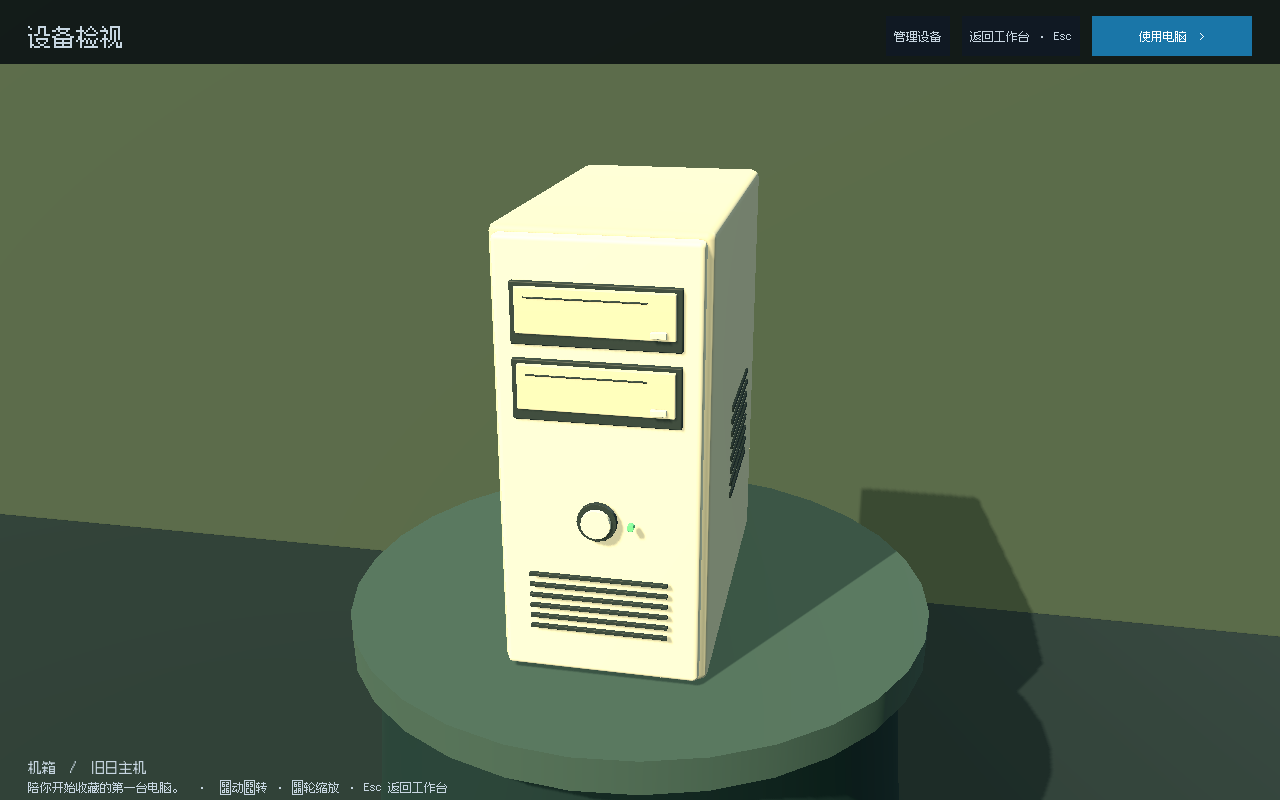
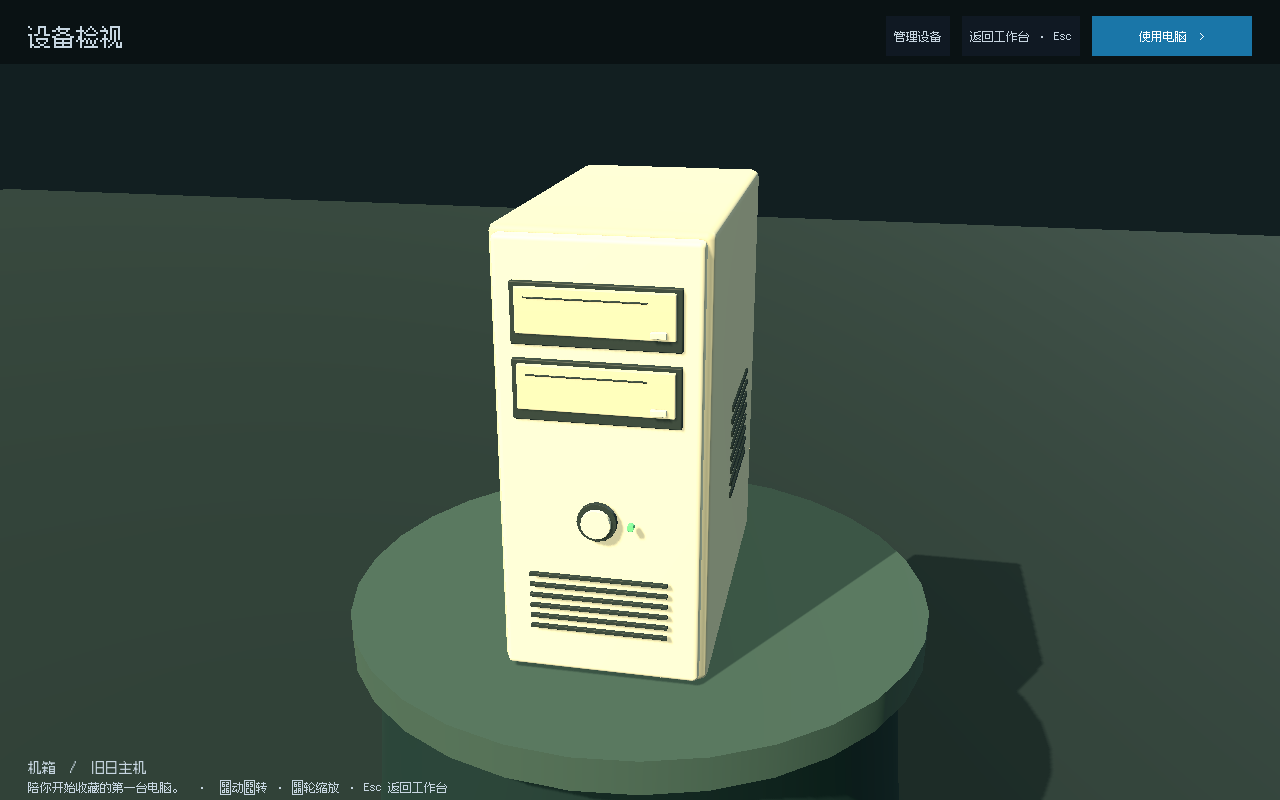
让 ComputerDesktop 使用原生3D场景，并支持总览直接旋转缩放

diff --git a/EDITOR_WORKFLOW.md b/EDITOR_WORKFLOW.md
@@ -4,11 +4,11 @@
 
 | 想编辑的内容 | 打开的文件 |
 |---|---|
-| 设备位置、旋转、缩放，相机和灯光 | `scenes/life/workstation_3d.tscn`，选择 3D |
+| 设备位置、旋转、缩放，相机和灯光 | `scenes/life/computer_desktop.tscn`，选择 3D，展开 Workstation3D |
 | 单件设备及默认 / 升级模型 | `scenes/life/hardware/*.tscn` |
 | 模型几何与材质源文件 | `tools/models/hardware.blend` |
 | 模型对应库存 ID、尺寸与屏幕位置 | `data/hardware/*.tres` |
-| 工作台控制界面、标题栏与按钮 | `scenes/life/computer_desktop.tscn`，选择 2D |
+| 工作台控制界面、标题栏与按钮 | `scenes/life/computer_desktop.tscn` 的 HUD/Interface，选择 2D |
 | 显示器中的系统、快捷方式、任务栏 | `scenes/life/desktop_screen.tscn` |
 | 应用标题栏与窗口操作 | `scenes/life/app_window.tscn` |
 | 商城页面、游戏列表与卡片 | `scenes/store.tscn`、`scenes/client/pages/`、`scenes/client/components/` |
@@ -16,13 +16,15 @@
 
 ## 3D 编辑
 
-在 `workstation_3d.tscn` 中，Equipment 下的 Monitor、Computer、Keyboard、Mouse 是独立 Node3D 实例。直接移动、旋转和缩放；进入检视后返回总览会恢复编辑器保存的摆放。默认模型已经实例化在 Models 下，展开可查看真实网格。选中物体按 F 可聚焦。
+直接打开 `computer_desktop.tscn` 即可进入 3D 编辑器。Workstation3D 已启用“可编辑子节点”，其 Equipment 下的 Monitor、Computer、Keyboard、Mouse 是独立 Node3D 实例。直接移动、旋转和缩放；进入检视后返回总览会恢复编辑器保存的摆放。默认模型已经实例化在 Models 下，展开可查看真实网格。选中物体按 F 可聚焦。
 
 KeyLight、FillLight 和 Environment 控制灯光与背景。Camera 是默认总览相机。Pedestal 是单品展示台，默认隐藏；运行时检视设备会显示它。Desk 是加载 GLB 的木质桌面。
 
 显示器的 Screen 是真实 3D 表面。编辑器默认显示玻璃材质；运行时接入实时系统纹理。旧存档可能安装升级型号，因此其外观与编辑器默认型号不同；几何都来自同一套已保存资源。
 
-`computer_desktop.tscn` 保留 Control 根节点用于应用与 HUD，WorldView 中嵌入真正的 3D 工作台。编辑空间布局请打开上面的 3D 源场景。总览以较低渲染分辨率表现复古像素感；检视和屏幕操作使用完整分辨率。
+`computer_desktop.tscn` 使用 Node3D 根节点，Workstation3D 直接在主视口渲染，不再通过 Control / SubViewportContainer 显示 3D。HUD 单独位于 CanvasLayer；只有显示器中的 2D 系统继续使用 DesktopViewport 作为实时纹理。`workstation_3d.tscn` 保留为模型、灯光和默认布局的复用源场景。
+
+玩家进入 ComputerDesktop 后，左键或右键拖动即可绕整个工作台水平旋转、上下调整俯仰，滚轮直接缩放；无需先进入单件检视。单击设备进入商品检视，单击显示器屏幕操作系统。拖动超过 6 个逻辑像素即视为旋转，松开不会误触设备或屏幕。返回总览保留离开前的视角，点击“重置视角”恢复编辑器保存的相机。Workstation3D 的 orbit_target、minimum_distance、maximum_distance 可在检查器中调整。
 
 ## 模型与屏幕配置
 

diff --git a/README.md b/README.md
@@ -6,7 +6,8 @@ Godot 4.6 低模 3D 电脑展示与游戏收藏经营原型。游戏直接进入
 
 1. 使用 Godot 4.6 导入根目录 `project.godot`。
 2. 等待首次导入完成，按 **F5** 进入 3D 设备工作台。主场景为 `scenes/game_root.tscn`。
-3. 点击显示器屏幕或“使用电脑”，镜头移动到屏幕前，再点击“游戏平台”或“购物与物品”；Esc /“返回工作台”返回总览。
+3. 在工作台直接左键 / 右键拖动旋转、滚轮缩放，点击“重置视角”恢复默认镜头。
+4. 点击显示器屏幕或“使用电脑”，镜头移动到屏幕前，再点击“游戏平台”或“购物与物品”；Esc /“返回工作台”返回总览。
 
 使用 GDScript 与 Compatibility 渲染器，无需 .NET 或插件。单独运行 `scenes/store.tscn` 可预览客户端；完整生活系统请从主场景运行。
 
@@ -43,9 +44,9 @@ Godot 4.6 低模 3D 电脑展示与游戏收藏经营原型。游戏直接进入
 
 当前每款游戏使用三个通用里程碑模板：10、60、180 点挑战进度。直播每 5 分钟基础获得 2 点，安装麦克风或进阶主机后增加收入。每款游戏可制作一篇攻略，已解锁成就影响稿费；发布后每 10 分钟获得 1 点阅读收益，最多 60 次。
 
-显示器、机箱、键盘、鼠标是四个独立 3D 模型。点击机箱、键盘或鼠标进入商品检视，左键拖动旋转、滚轮缩放；总览中右键拖动可小幅环顾。安装设备会切换对应模型，精准键鼠套装同时更换键盘与鼠标。
+显示器、机箱、键盘、鼠标是四个独立 3D 模型。点击机箱、键盘或鼠标进入商品检视，左键拖动旋转、滚轮缩放；总览中左键 / 右键拖动可水平环绕和调整俯仰，滚轮直接缩放，无需先进入单品检视；返回总览保留原有视角。安装设备会切换对应模型，精准键鼠套装同时更换键盘与鼠标。
 
-打开 `scenes/life/workstation_3d.tscn` 可在 Godot 3D 编辑器直接调整设备位置、旋转、大小、灯光和相机。模型源文件为 `tools/models/hardware.blend`，游戏加载已导出的 GLB，不依赖本地 Blender，也不在运行时建模。
+打开 `scenes/life/computer_desktop.tscn` 即进入 Godot 3D 编辑器，可在 Workstation3D 下直接调整设备位置、旋转、大小、灯光和相机。界面按钮位于 HUD/Interface 的 CanvasLayer 中，显示器内系统仍为 2D 纹理。模型源文件为 `tools/models/hardware.blend`，游戏加载已导出的 GLB，不依赖本地 Blender，也不在运行时建模。
 
 商品与数值定义在 `scripts/life/life_data.gd`。房间、家具场景和展示柜界面已移除。网页继续销售显示器、主机、外设和麦克风；书桌、台灯及展示柜停售，已购买的历史物品仍保留在库存和存档中。硬件暂提供效率加成，尚未根据 Excel 的 CPU/GPU 型号设置运行门槛；每款游戏独立的成就条件、直播热度可后续扩展。
 
